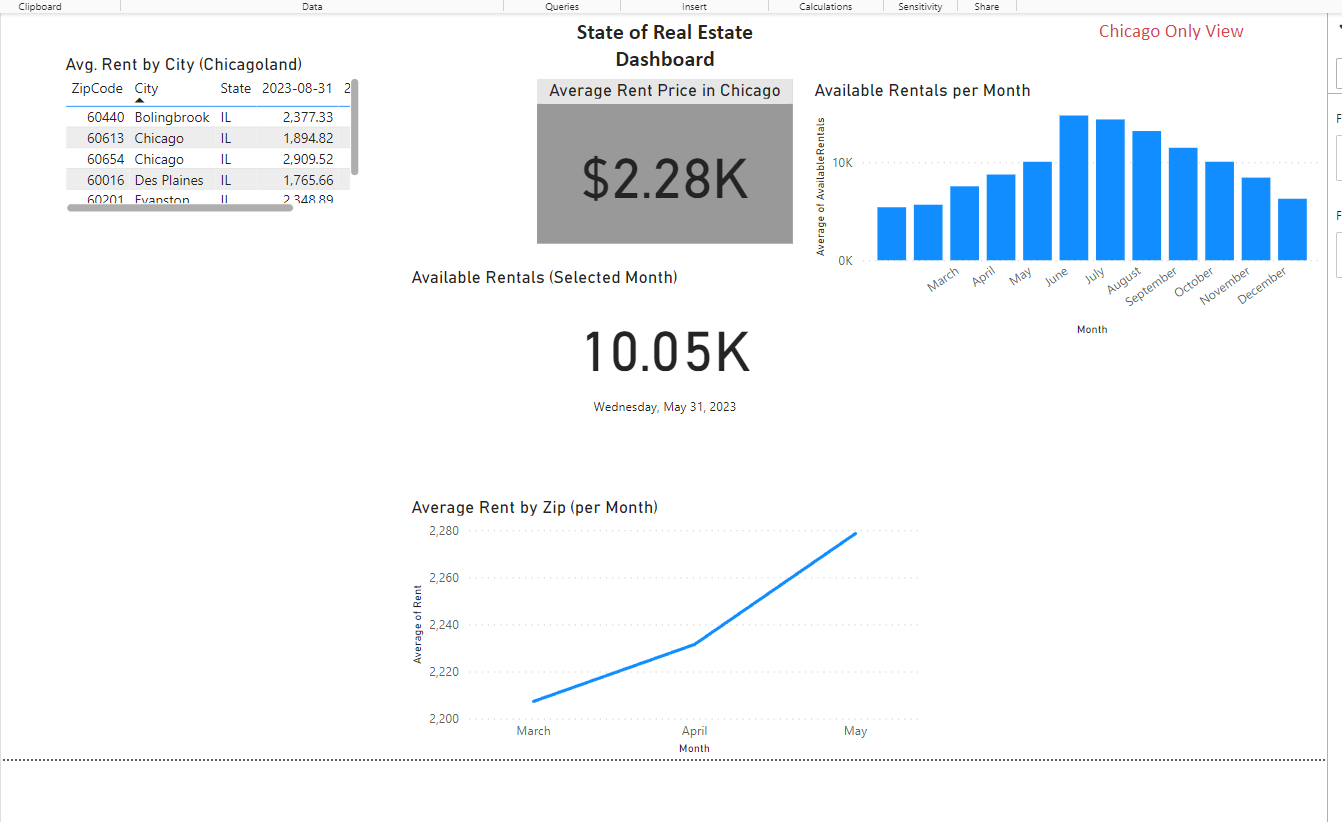
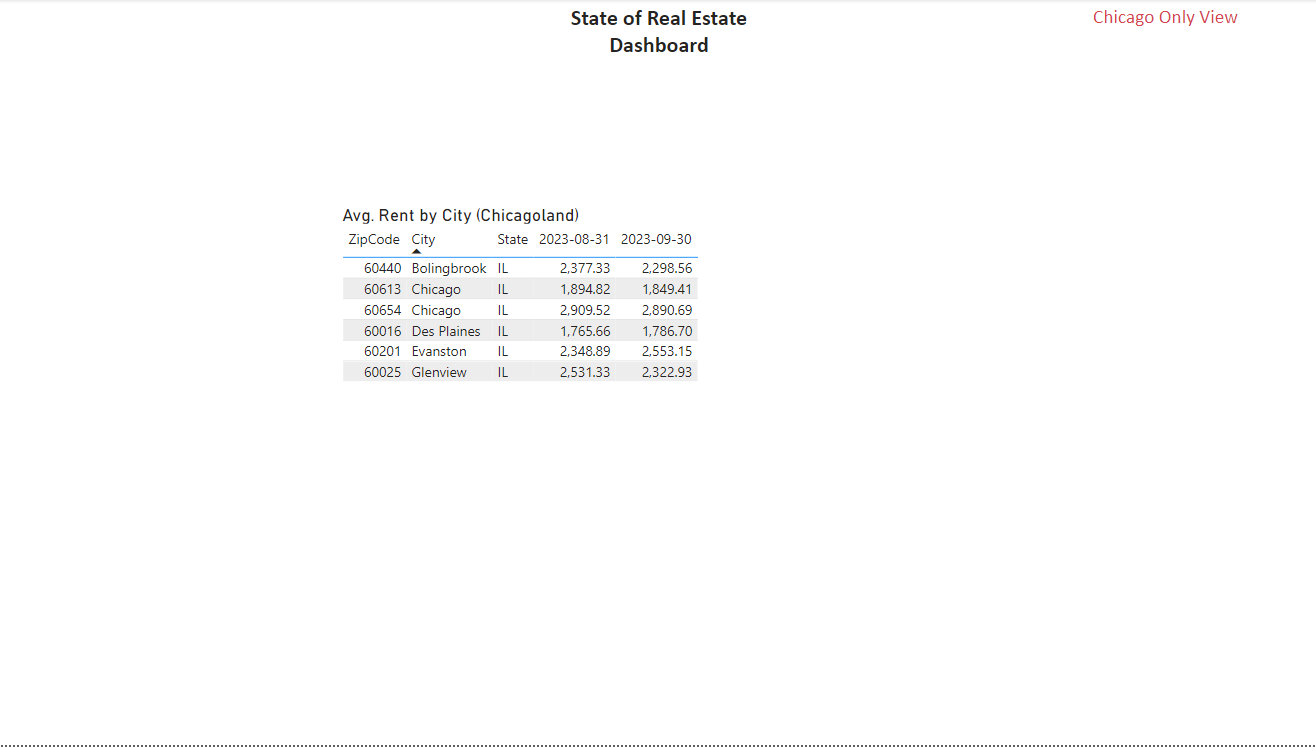
adds addtl changes to dashboard project page

diff --git a/projects.html b/projects.html
@@ -88,6 +88,29 @@
                     The only issue with this though, is that while it's really easy to be able to write your code & immediately view it in a nice "web-ui" format, any target audience
                     members who may not have a data background & thus are not familiar with the Jupyter UI may find looking at data here to be a bit cumbersome.
                   </p>
+                  <h1>Iteration #2</h1>
+                  <img id="iteration1pic" src="./Images/REDashboardPics/PowerBI_Iteration1.png" class=" img-thumbnail">
+                  <p>Once I finished developing a rudimentary ETL process (extracting the data from the source using a Python script, cleaning it up using various scripts & testing
+                    in Jupyter notebooks, pushing the data to a locally hosted SQL database, and orchestrating the execution of the script using native Microsoft tools), I was able to
+                    start leveraging PowerBI to better visualize some of the data. After a few rounds of saving and testing the data in the PowerBI UI, this is what came out as the result.
+                  </p>
+                  <p>Basic? Yes. Brutally plain? Yes. But getting PowerBI to display at least *some* data was a journey in and of itself, so I've included what this looks like just to serve as a reminder
+                    of what the first stage looked like!
+                  </p>
+                  <h1>Iteration #3</h1>
+                  <img id="iteration2pic" src="./Images/REDashboardPics/PowerBI_Iteration2.png" class=" img-thumbnail">
+                  <p>Now that the data was displayed, I was able to take a stab at displaying at least something more visually appealing. The image above details this first attempt!</p>
+                  <h1>Iteration #4</h1>
+                  <img id="iteration3pic" src="./Images/REDashboardPics/PowerBI_Iteration3.png" class=" img-thumbnail">
+                  <p>
+                    At this step in the process, I'll admit: being somebody with a more logical brain meant that I had *zero* clue on how to go about designing this project. What next, you may ask?
+                    Well, this required me putting on the hat of a Product Manager, and playing the role. What did this entail? Well, the realization that end-user input would be valuable before
+                    continuing to develop this project.
+                  </p>
+                  <p>
+                    I quickly phoned a friend, and had her give me her first initial impression. At first glance, she was able to instantly identify just how much of an eyesore the placement
+                    of the elements was. Ta-da; my first feature improvement request!
+                  </p>
                 </div>
               </div>
               <!--Grid column-->
